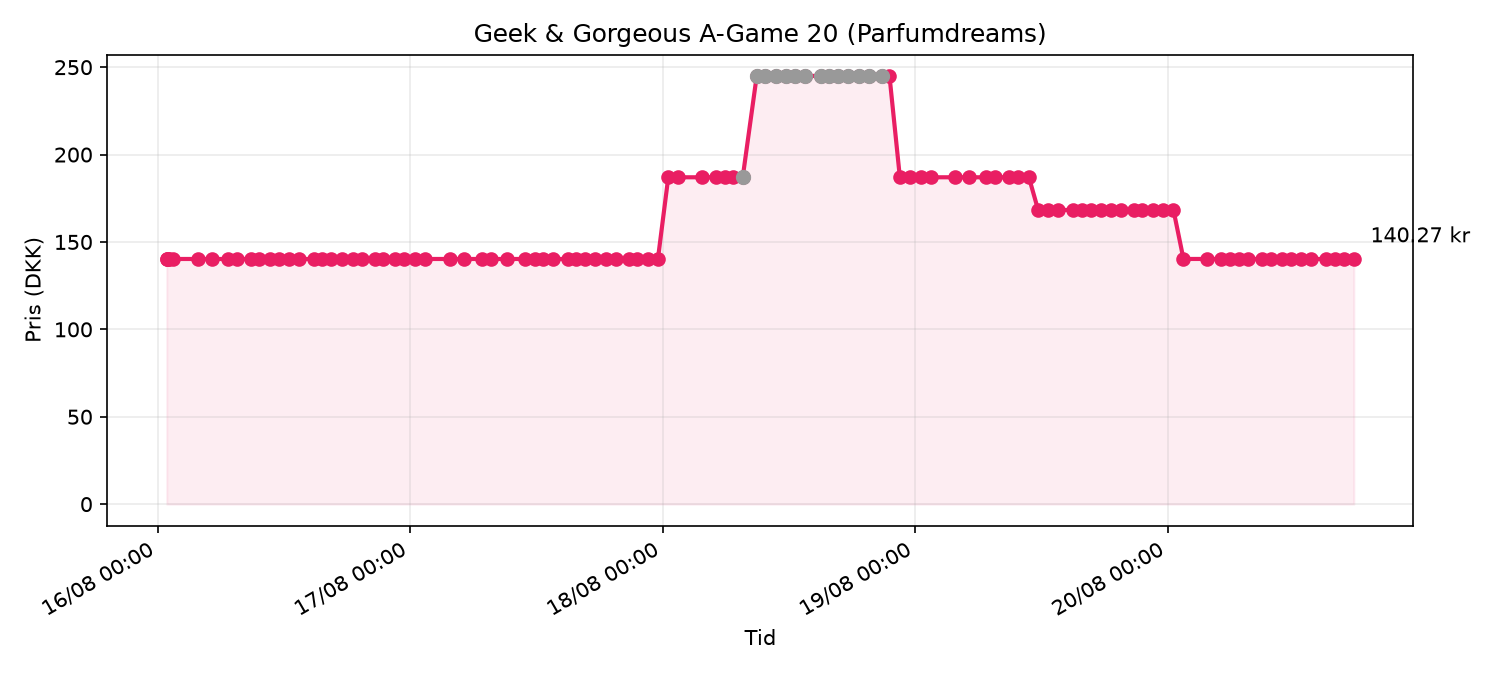
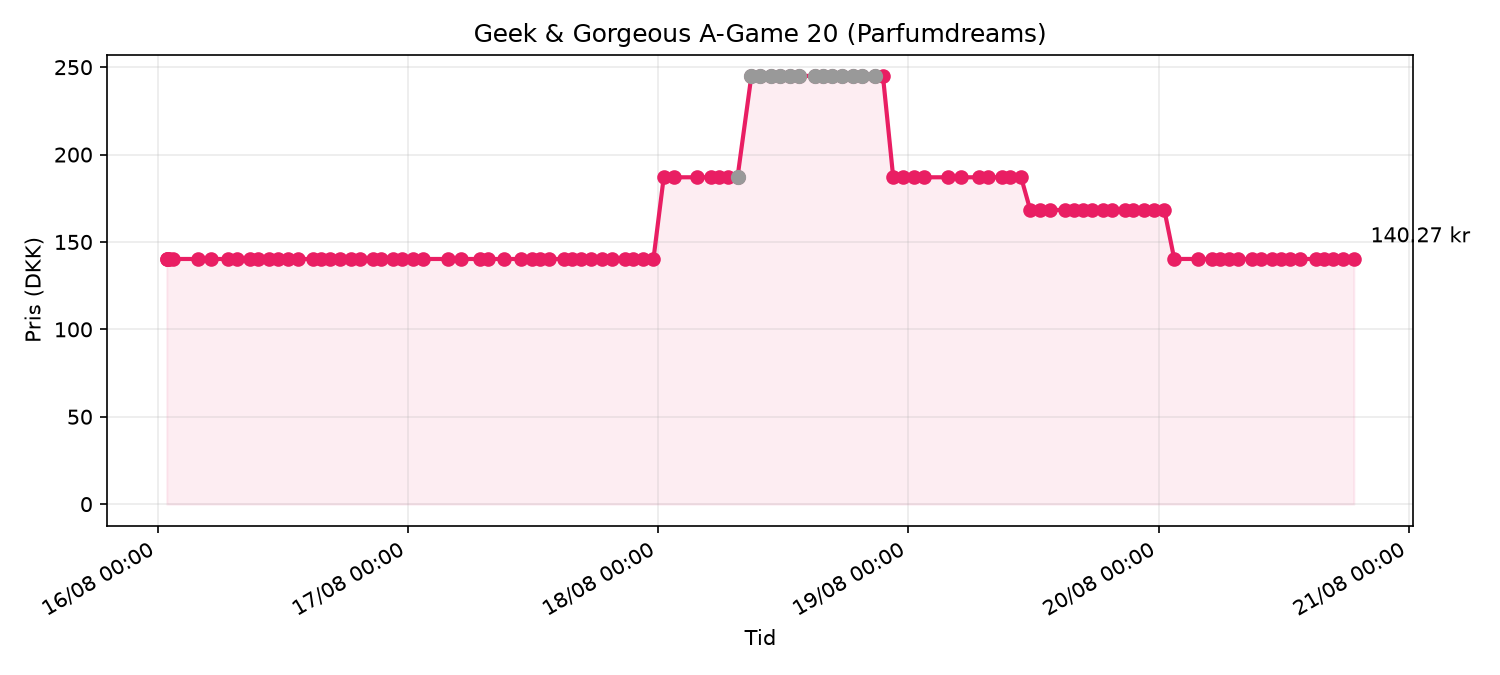
deploy: 5b8eb70ce67cea49355f3e13ad8eb10916ca5c53

diff --git a/price_chart.html b/price_chart.html
@@ -13,7 +13,7 @@
 </head>
 <body>
   <h1>Geek & Gorgeous A-Game 20 (Parfumdreams)</h1>
-  <p class="meta">Senest tjekket: 20/08/2026 17:41 · Pris: <strong>140.27 kr</strong> · på lager</p>
+  <p class="meta">Senest tjekket: 20/08/2026 18:43 · Pris: <strong>140.27 kr</strong> · på lager</p>
   
   <p><a href="https://www.parfumdreams.dk/Geek-Gorgeous/Samlinger/101-aktive-stoffer/A-Game-20-Serum/index_137083.aspx?variation=221879">Åbn produkt på Parfumdreams</a></p>
   <img src="price_chart.png" alt="Prisgraf">
